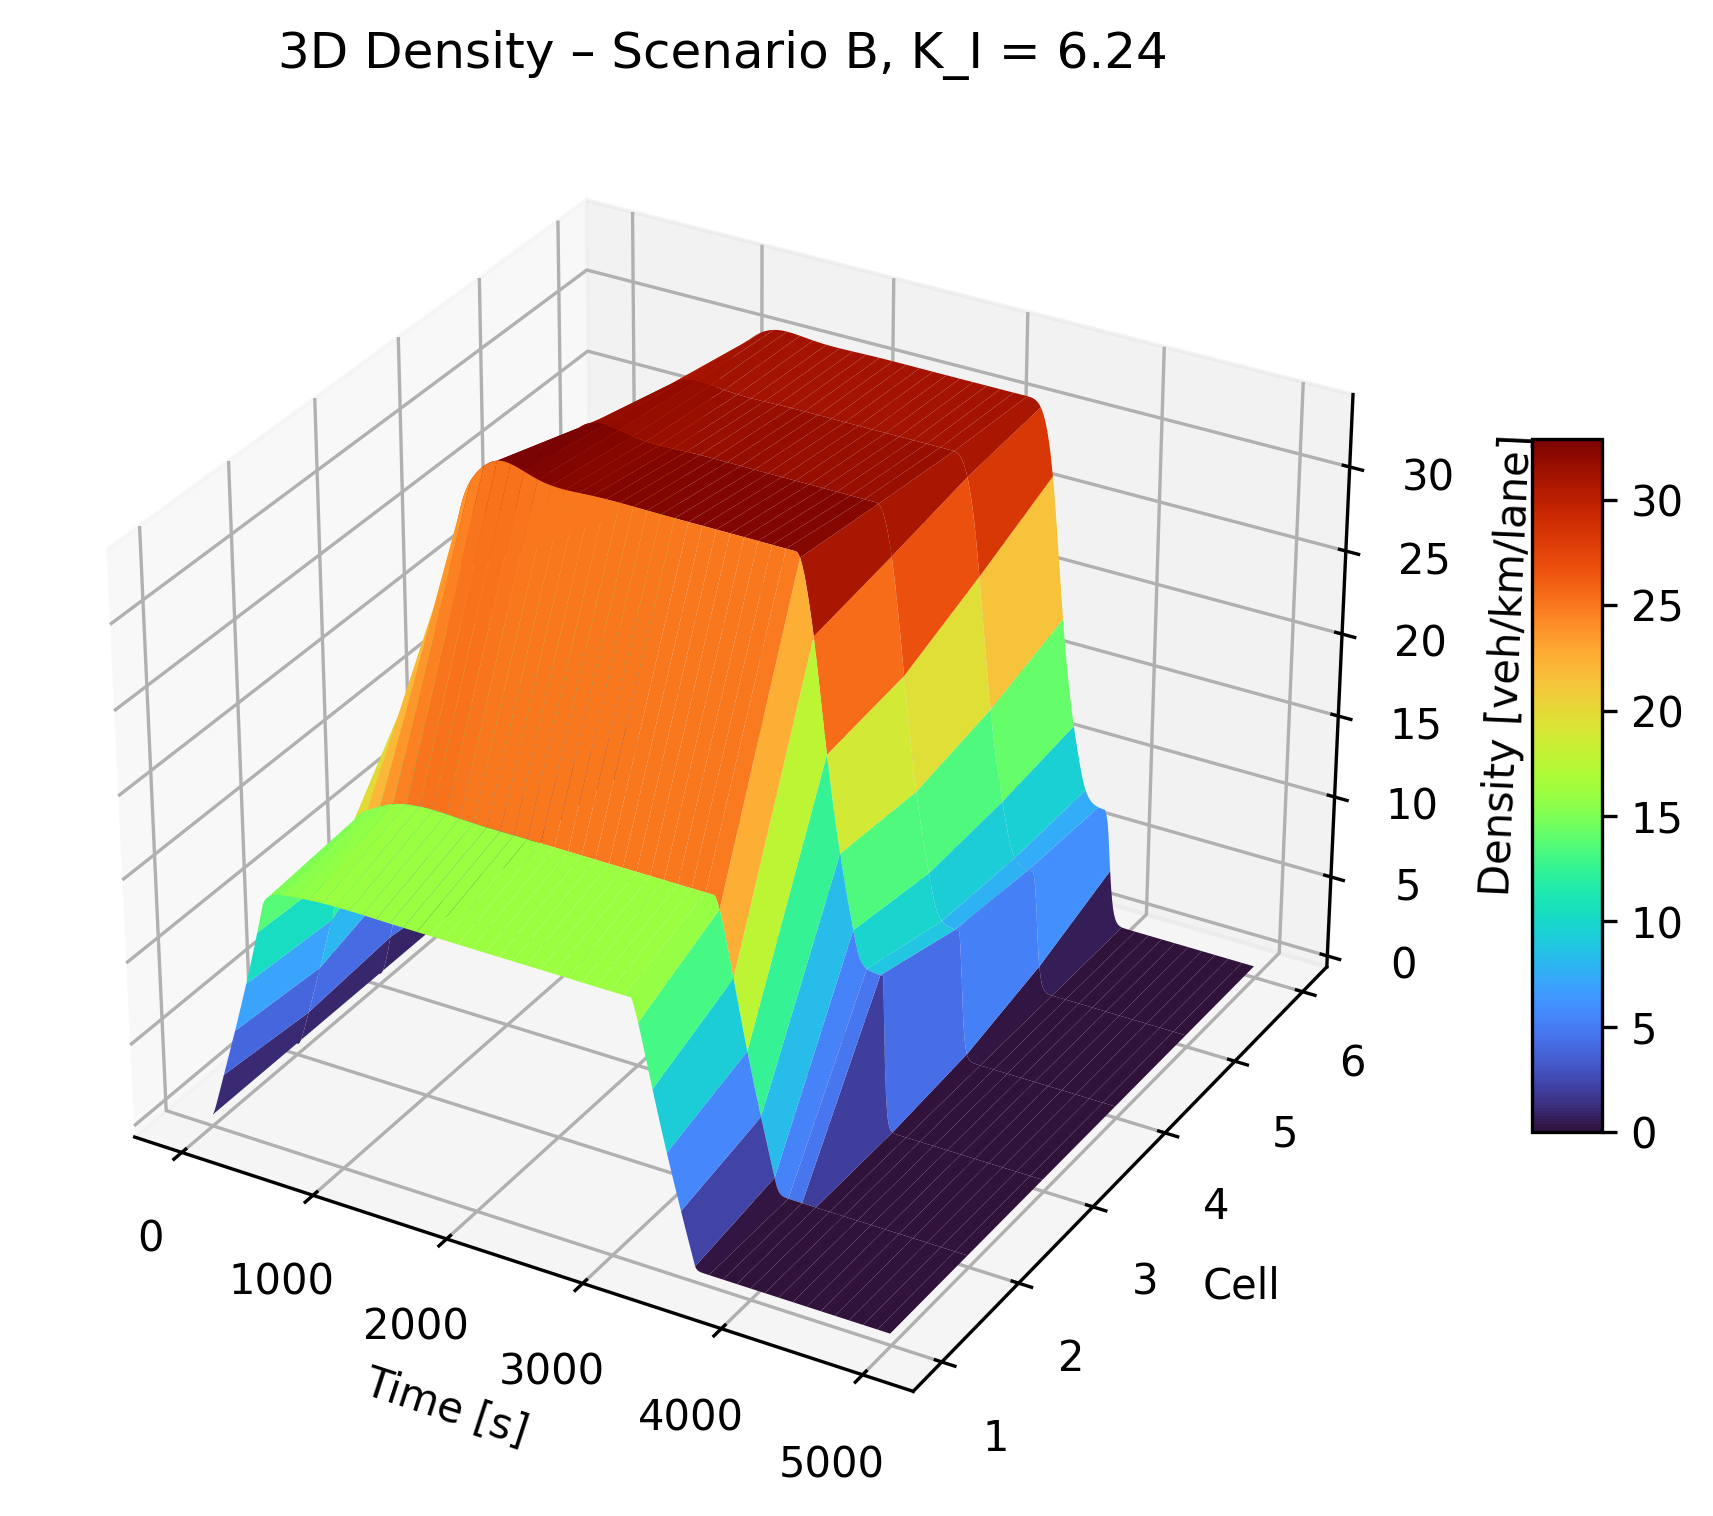
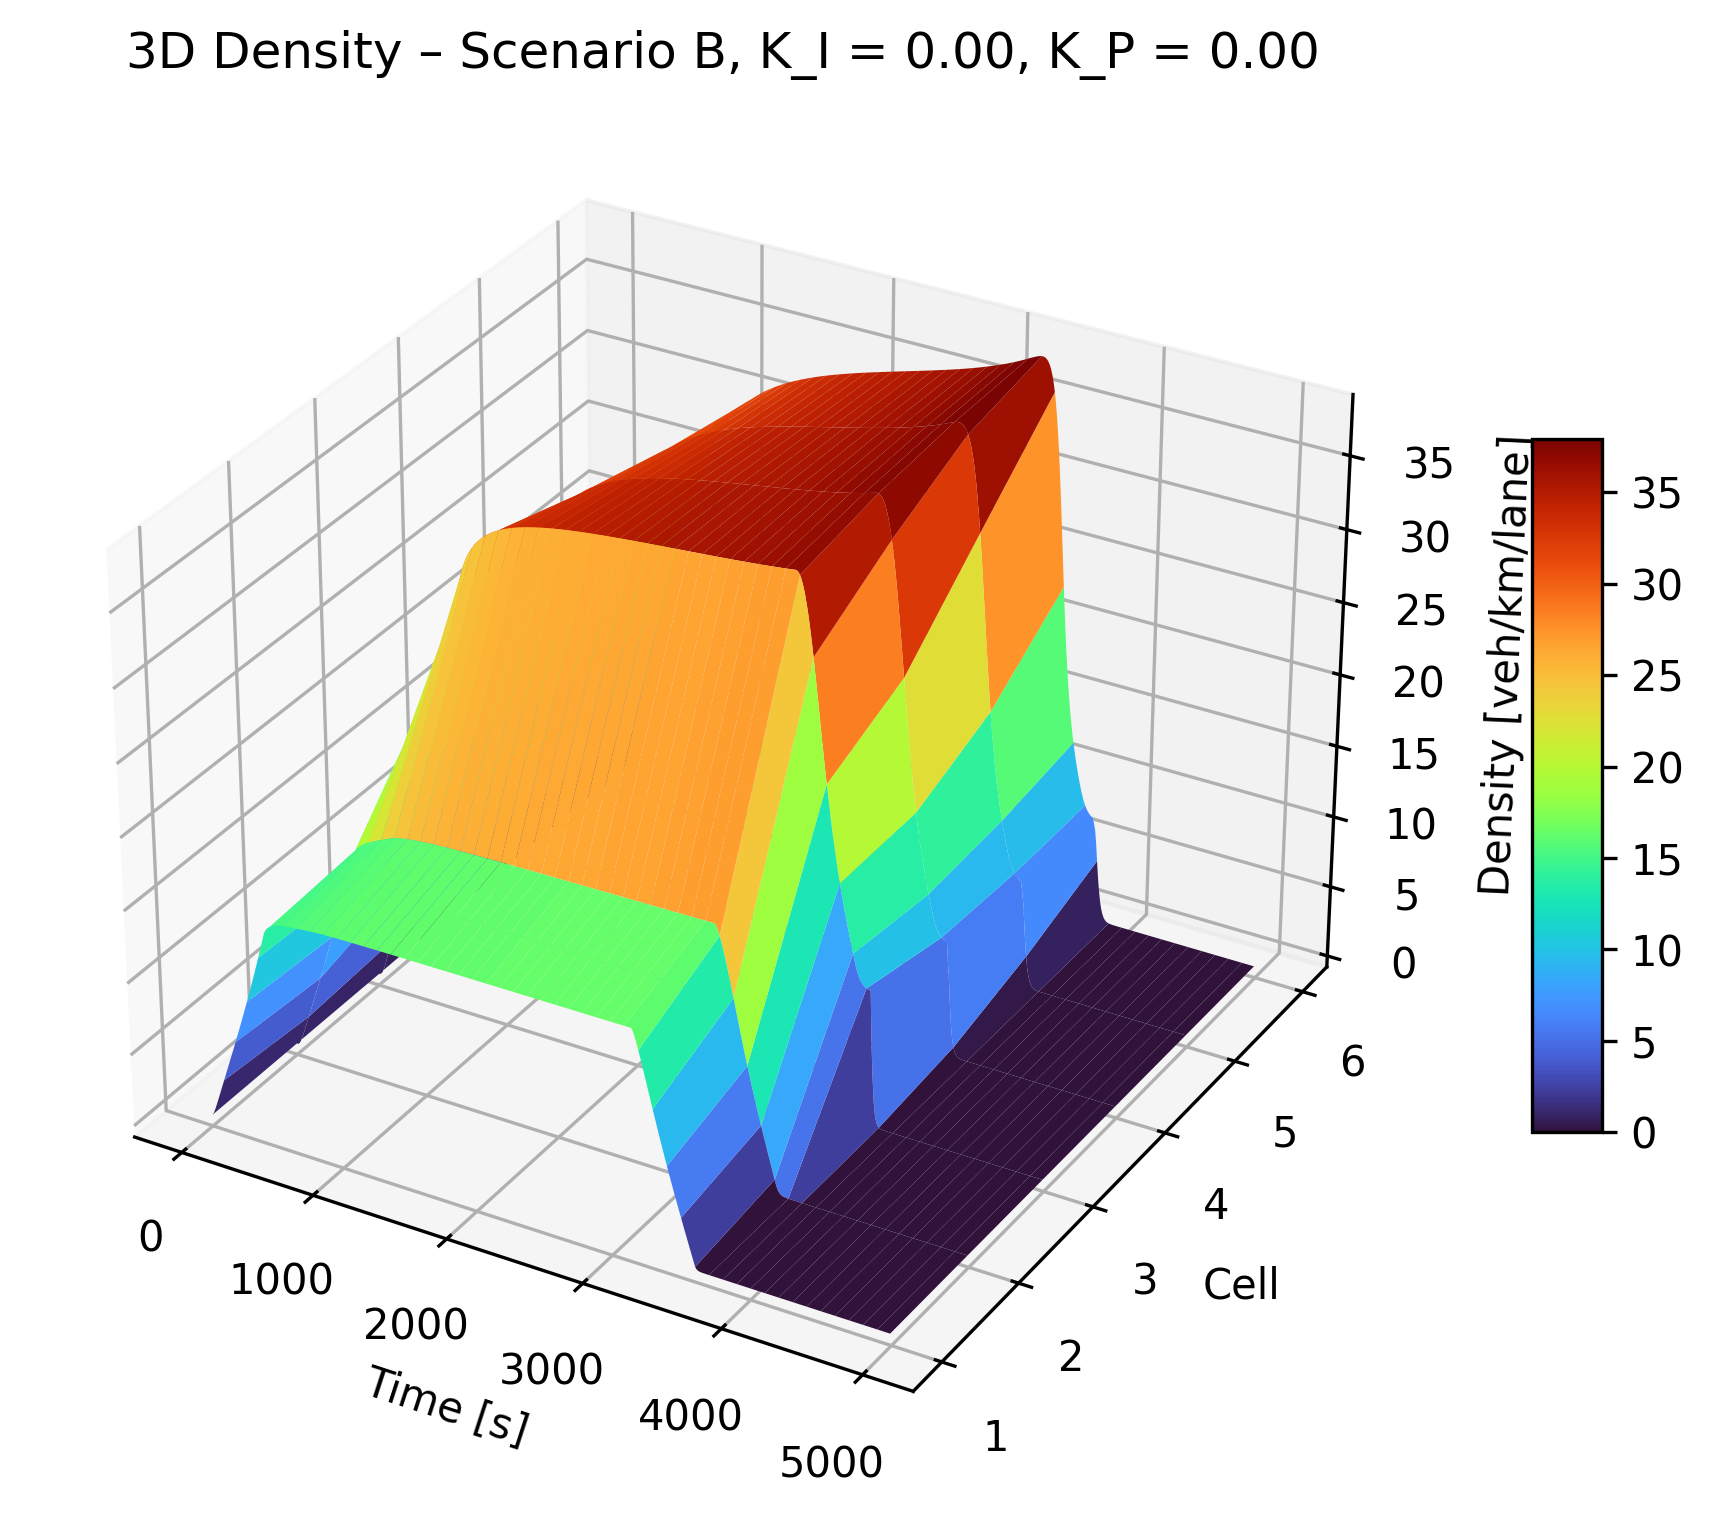
Enhance ALINEA simulation with parallel execution and 2D parameter scanning

diff --git a/Exercise2/run_alinea.py b/Exercise2/run_alinea.py
@@ -1,6 +1,9 @@
-import numpy as np
+import concurrent.futures
+import os
+
 import matplotlib.pyplot as plt
-from matplotlib import cm
+import numpy as np
+
 from metanet_model import run_metanet
 
 
@@ -22,12 +25,13 @@ def plot_scenario(res, lanes, title_suffix=""):
     m = re.search(r"SCENARIO\s*([A-Z])", title_up)
     scenario_letter = m.group(1) if m else (
         res.get("scenario", "unknown") if isinstance(res.get("scenario"), str) else "unknown")
-    
+
     # Detect ALINEA/K_I while handling negations like "no alinea", "without alinea", etc.
     has_alinea = bool(re.search(r"\balinea\b|\bk_i\b", title_low))
-    negated = bool(re.search(r"\b(no|not|without)\b\s*(alinea|\bk_i\b)|\b(alinea|\bk_i\b)\s*(no|not|without)\b", title_low))
+    negated = bool(
+        re.search(r"\b(no|not|without)\b\s*(alinea|\bk_i\b)|\b(alinea|\bk_i\b)\s*(no|not|without)\b", title_low))
     mode = "alinea" if has_alinea and not negated else ""
-    
+
     # Build base name and collapse multiple underscores
     if mode:
         base_name = f"scenario_{scenario_letter.lower()}_{mode}_metanet"
@@ -113,17 +117,90 @@ def plot_scenario(res, lanes, title_suffix=""):
     plt.show()
 
 
-def scan_K(d_main, d_ramp, lanes, measured_cell, K_min=0.5, K_max=20.0, n_K=1000):
-    K_values = np.linspace(K_min, K_max, n_K)
-    vht_values = np.zeros_like(K_values)
-    avg_speed_values = np.zeros_like(K_values)
+def _run_single(args):
+    i, j, Ki, Kp, d_main, d_ramp, lanes, measured_cell = args
+    res = run_metanet(d_main, d_ramp, lanes, K_I=Ki, K_P=Kp, measured_cell=measured_cell)
+    return i, j, res["vht"], res["avg_speed"]
 
-    for idx, K_I in enumerate(K_values):
-        res = run_metanet(d_main, d_ramp, lanes, K_I=K_I, measured_cell=measured_cell)
-        vht_values[idx] = res["vht"]
-        avg_speed_values[idx] = res["avg_speed"]
 
-    return K_values, vht_values, avg_speed_values
+def scan_K(
+        d_main, d_ramp, lanes, measured_cell,
+        Ki_min=0.0, Ki_max=20.0, n_Ki=50,
+        Kp_min=0.0, Kp_max=10.0, n_Kp=25,
+        n_jobs=None,
+        coarse_refine=False,
+        coarse_factor=5,
+        refine_frac=0.2
+):
+    """
+    Efficient scan over K_I (rows) and K_P (cols).
+    - Uses parallel execution (n_jobs default = number of CPUs).
+    - If coarse_refine=True, does a coarse scan first (grid reduced by coarse_factor),
+      then refines around the best coarse cell using refine_frac window.
+    Returns:
+      Ki_values, Kp_values, vht_grid, avg_speed_grid, best
+    """
+    n_jobs = n_jobs or os.cpu_count() or 1
+
+    def _parallel_scan(Ki_values, Kp_values):
+        vht_grid = np.full((len(Ki_values), len(Kp_values)), np.nan)
+        avg_speed_grid = np.full((len(Ki_values), len(Kp_values)), np.nan)
+
+        tasks = []
+        for i, Ki in enumerate(Ki_values):
+            for j, Kp in enumerate(Kp_values):
+                tasks.append((i, j, Ki, Kp, d_main, d_ramp, lanes, measured_cell))
+
+        with concurrent.futures.ProcessPoolExecutor(max_workers=n_jobs) as ex:
+            for i, j, vht, avg in ex.map(_run_single, tasks):
+                vht_grid[i, j] = vht
+                avg_speed_grid[i, j] = avg
+
+        return vht_grid, avg_speed_grid
+
+    Ki_values = np.linspace(Ki_min, Ki_max, n_Ki)
+    Kp_values = np.linspace(Kp_min, Kp_max, n_Kp)
+
+    if not coarse_refine:
+        vht_grid, avg_speed_grid = _parallel_scan(Ki_values, Kp_values)
+    else:
+        # coarse scan
+        ncKi = max(2, n_Ki // coarse_factor)
+        ncKp = max(2, n_Kp // coarse_factor)
+        Ki_coarse = np.linspace(Ki_min, Ki_max, ncKi)
+        Kp_coarse = np.linspace(Kp_min, Kp_max, ncKp)
+        vht_coarse, avg_coarse = _parallel_scan(Ki_coarse, Kp_coarse)
+
+        idx_flat = np.nanargmin(vht_coarse)
+        i_c, j_c = np.unravel_index(idx_flat, vht_coarse.shape)
+        Ki_best_c = Ki_coarse[i_c]
+        Kp_best_c = Kp_coarse[j_c]
+
+        # refine window around coarse best
+        Ki_span = max((Ki_max - Ki_min) * refine_frac, (Ki_coarse[1] - Ki_coarse[0]))
+        Kp_span = max((Kp_max - Kp_min) * refine_frac, (Kp_coarse[1] - Kp_coarse[0]))
+
+        Ki_lo = max(Ki_min, Ki_best_c - Ki_span)
+        Ki_hi = min(Ki_max, Ki_best_c + Ki_span)
+        Kp_lo = max(Kp_min, Kp_best_c - Kp_span)
+        Kp_hi = min(Kp_max, Kp_best_c + Kp_span)
+
+        Ki_values = np.linspace(Ki_lo, Ki_hi, n_Ki)
+        Kp_values = np.linspace(Kp_lo, Kp_hi, n_Kp)
+        vht_grid, avg_speed_grid = _parallel_scan(Ki_values, Kp_values)
+
+    idx_flat = np.nanargmin(vht_grid)
+    i_best, j_best = np.unravel_index(idx_flat, vht_grid.shape)
+    best = {
+        "Ki": Ki_values[i_best],
+        "Kp": Kp_values[j_best],
+        "vht": vht_grid[i_best, j_best],
+        "avg_speed": avg_speed_grid[i_best, j_best],
+        "i_idx": i_best,
+        "j_idx": j_best,
+    }
+
+    return Ki_values, Kp_values, vht_grid, avg_speed_grid, best
 
 
 if __name__ == "__main__":
@@ -157,42 +234,76 @@ if __name__ == "__main__":
     plot_scenario(res_B, lanes_B, title_suffix="– Scenario B, no ALINEA")
     plot_scenario(res_C, lanes_C, title_suffix="– Scenario C, no ALINEA")
 
-    K_B, vht_B, avg_B = scan_K(dB_main, dB_ramp, lanes_B, measured_cell=2)
-    idx_B = np.argmin(vht_B)
+    Ki_vals, Kp_vals, vht_grid, avg_grid, best = scan_K(dB_main, dB_ramp, lanes_B, measured_cell=4)
+
+    # If scan was effectively 1D (single K_P), take that column; otherwise take the column at best K_P
+    if len(Kp_vals) == 1:
+        K_B = Ki_vals
+        vht_B = vht_grid[:, 0]
+        avg_B = avg_grid[:, 0]
+        j_best = 0
+    else:
+        j_best = best["j_idx"]
+        K_B = Ki_vals
+        vht_B = vht_grid[:, j_best]
+        avg_B = avg_grid[:, j_best]
+
+    # pick optimal K_I from the 1D slice
+    idx_B = int(np.nanargmin(vht_B))
     K_opt_B = K_B[idx_B]
     print(f"Scenario B: K_opt = {K_opt_B:.2f}, VHT_min = {vht_B[idx_B]:.1f} veh·h")
 
     plt.figure(figsize=(7, 4))
-    plt.plot(K_B, vht_B)
+    plt.plot(K_B, vht_B, marker='o')
     plt.xlabel("K_I")
     plt.ylabel("VHT [veh·h]")
     plt.title("Scenario B: VHT vs K_I")
     plt.grid(True)
     plt.show()
 
-    best_B = run_metanet(dB_main, dB_ramp, lanes_B, K_I=K_opt_B, measured_cell=2, lane_drop_cell=None)
+    # choose K_P to use in the final simulation (use the K_P from the best column or 0 if only one)
+    Kp_for_sim = float(Kp_vals[j_best]) if len(Kp_vals) >= 1 else 0.0
+    best_B = run_metanet(dB_main, dB_ramp, lanes_B, K_I=K_opt_B, K_P=Kp_for_sim, measured_cell=4, lane_drop_cell=None)
     print("Scenario B with ALINEA (K_opt)")
     print(f"  VKT = {best_B['vkt']:.1f} veh·km")
     print(f"  VHT = {best_B['vht']:.1f} veh·h")
     print(f"  Avg speed = {best_B['avg_speed']:.1f} km/h")
-    plot_scenario(best_B, lanes_B, title_suffix=f"– Scenario B, K_I = {K_opt_B:.2f}")
+    plot_scenario(best_B, lanes_B, title_suffix=f"– Scenario B, K_I = {K_opt_B:.2f}, K_P = {Kp_for_sim:.2f}")
 
-    K_C, vht_C, avg_C = scan_K(dC_main, dC_ramp, lanes_C, measured_cell=4)
-    idx_C = np.argmin(vht_C)
-    K_opt_C = K_C[idx_C]
-    print(f"Scenario C: K_opt = {K_opt_C:.2f}, VHT_min = {vht_C[idx_C]:.1f} veh·h")
+    # perform 2D scan (Ki x Kp)
+    Ki_vals, Kp_vals, vht_grid, avg_grid, best = scan_K(dC_main, dC_ramp, lanes_C, measured_cell=5)
 
+    # print best pair found
+    print(f"Scenario C: K_I_opt = {best['Ki']:.4f}, K_P_opt = {best['Kp']:.4f}, VHT_min = {best['vht']:.1f} veh·h")
+
+    # If you want a 2D heatmap of VHT over (K_I, K_P)
+    plt.figure(figsize=(7, 5))
+    # imshow expects [rows, cols] = [len(Ki), len(Kp)]
+    extent = [Kp_vals[0], Kp_vals[-1], Ki_vals[-1], Ki_vals[0]]  # flip y for natural orientation
+    plt.imshow(vht_grid, aspect='auto', extent=extent, cmap='viridis')
+    plt.colorbar(label='VHT [veh·h]')
+    plt.xlabel("K_P")
+    plt.ylabel("K_I")
+    plt.title("Scenario C: VHT (K_I vs K_P)")
+    plt.scatter([best['Kp']], [best['Ki']], color='red', marker='x', label='best')
+    plt.legend()
+    plt.grid(False)
+    plt.show()
+
+    # Also plot VHT vs K_I for the best K_P (1D cross-section, similar to previous plot)
+    j_best = best['j_idx']
     plt.figure(figsize=(7, 4))
-    plt.plot(K_C, vht_C)
+    plt.plot(Ki_vals, vht_grid[:, j_best], marker='o')
     plt.xlabel("K_I")
     plt.ylabel("VHT [veh·h]")
-    plt.title("Scenario C: VHT vs K_I")
+    plt.title(f"Scenario C: VHT vs K_I (K_P = {Kp_vals[j_best]:.3f})")
     plt.grid(True)
     plt.show()
 
-    best_C = run_metanet(dC_main, dC_ramp, lanes_C, K_I=K_opt_C, K_P=3, measured_cell=4, lane_drop_cell=3)
-    print("Scenario C with ALINEA (K_opt)")
+    # simulate using best controller pair and plot results
+    best_C = run_metanet(dC_main, dC_ramp, lanes_C, K_I=best['Ki'], K_P=best['Kp'], measured_cell=5, lane_drop_cell=3)
+    print("Scenario C with ALINEA (best K_I, K_P)")
     print(f"  VKT = {best_C['vkt']:.1f} veh·km")
     print(f"  VHT = {best_C['vht']:.1f} veh·h")
     print(f"  Avg speed = {best_C['avg_speed']:.1f} km/h")
-    plot_scenario(best_C, lanes_C, title_suffix=f"– Scenario C, K_I = {K_opt_C:.2f}")
+    plot_scenario(best_C, lanes_C, title_suffix=f"– Scenario C, K_I = {best['Ki']:.2f}, K_P = {best['Kp']:.2f}")
